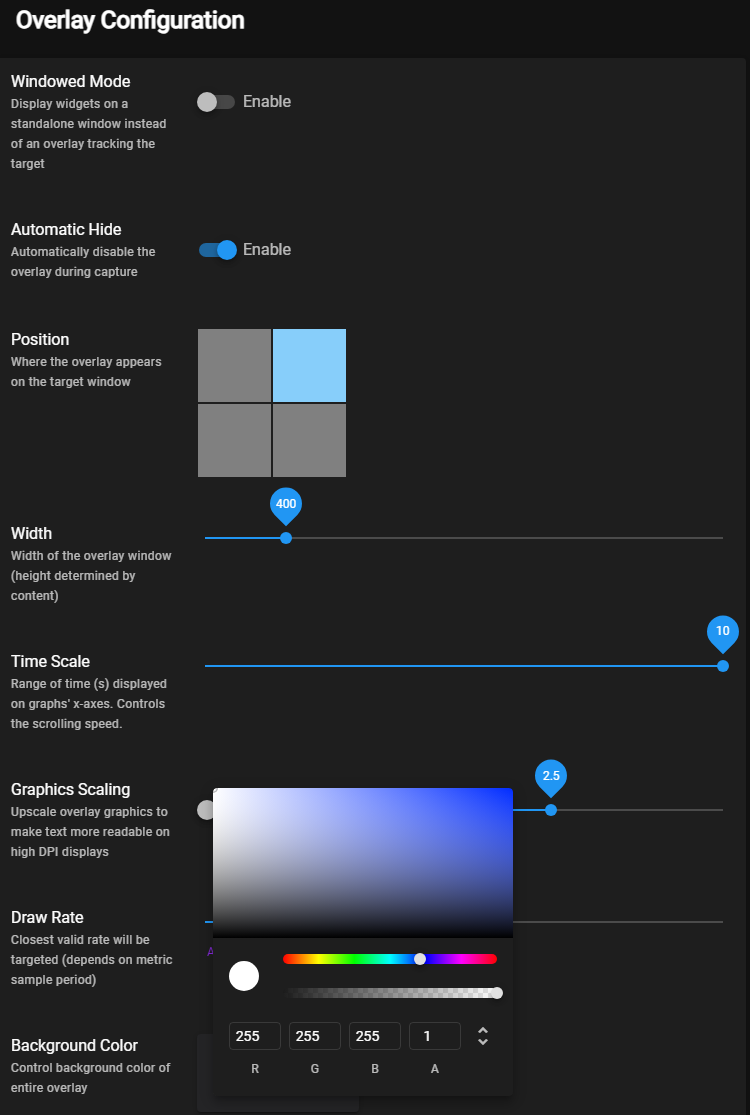
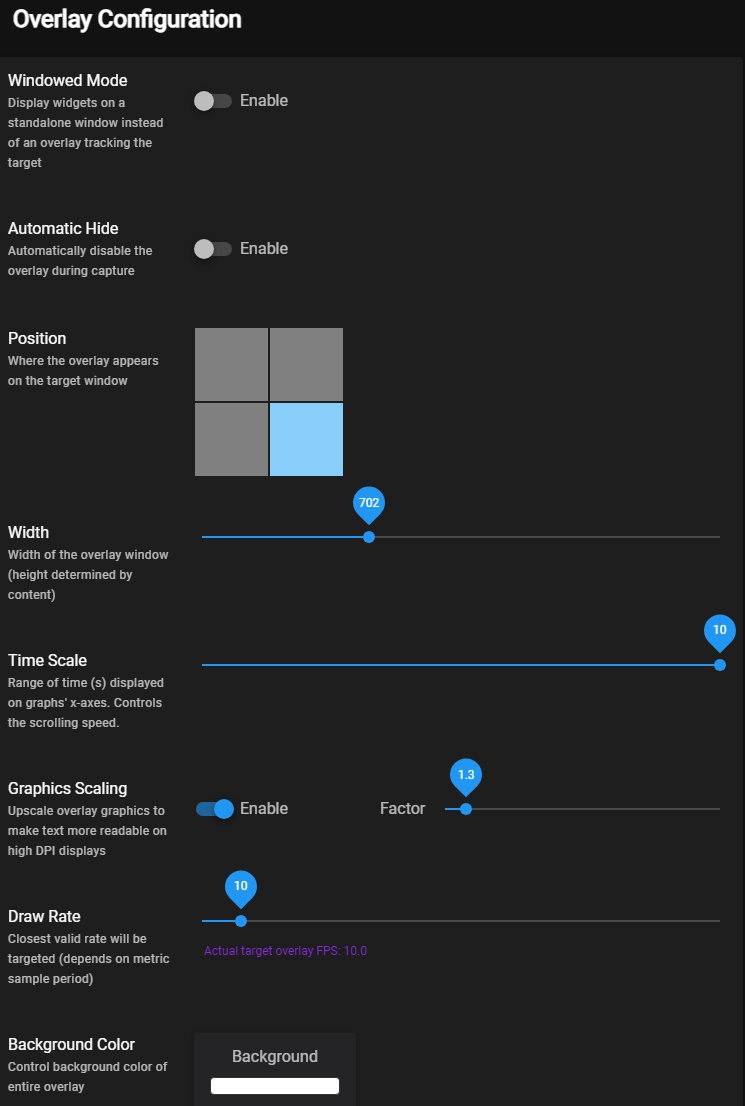
sampling period, white background

diff --git a/Windows/tune.htm b/Windows/tune.htm
@@ -156,11 +156,16 @@ may now be negative, wanting top exhaust fans driven separately from front intak
 <dd>Custom<br><img width=90% src=image/Loadout.png>
 <dd>Position upper right quadrant instead of left<br>
 <img width=90% src=image/Overlay.png>
+<dd>Tweaked sampling period<br>
+<img width=90% src=image/Data.png>
+
 </dl>
 <h4>Measuring <a href=#EZB>EzBench</a></h4><ul compact>
 <li>Often, GPU busy time > Frame Time, which seems unlikely<br>
-<img src=image/FrameTime_GPUbusyAvg.jpg>
-<li>More consistenly so for Photogrammetry<br>
+<img src=image/FrameTime_GPUbusyAvg.jpg><br clear=all>
+<br>While I prefer white background; no setting for black text:<br>
+<img src=image/FrameTime_GPUbusyRaw.png>
+<li>GPU busy time > Frame Time more consistenly so for Photogrammetry<br>
 <img src=image/Photogrammetry.png>
 <li>dramatically more (3.3x) so when rendering 3840x2160 for 2560x1440 display:<br>
 <img width=95% src=image/3840x2160.jpg>
